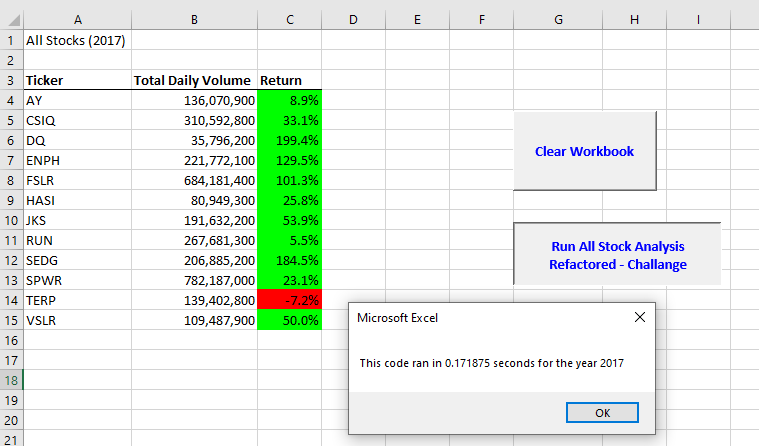
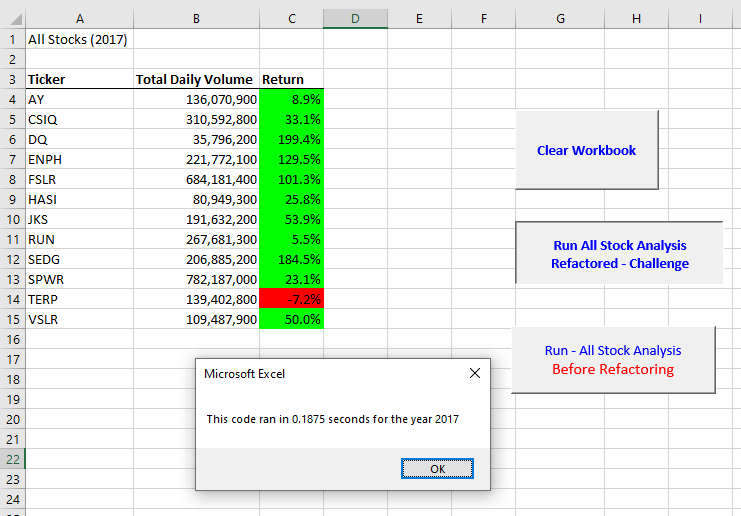
read me updated v7

Changed region(s): [[0.0, 0.0291, 1.0, 1.0]]

diff --git a/README.md b/README.md
@@ -73,7 +73,7 @@ The main purpose of this project was to refactor a VBA code that was already cre
 •	4.Easier to maintain and increase scalability
 
 ### The Advantages of Refactoring Stock Analysis
-The run time for macro went down significantly. The original code took around 0.93 seconds and 0.98 seconds for 2017 and 2018 respectively. While after refactoring, it went down to 0.17 and 0.18 seconds for 2017 and 2018 respectively. 
+The run time for macro went down significantly. The original code took around 0.93 seconds and 0.98 seconds for 2017 and 2018 respectively. While after refactoring, it went down to  0.1875 seconds for both 2017 and 2018. 
 
 Below are the screenshots which show the run time for 2017 & 2018 analysis.
 
